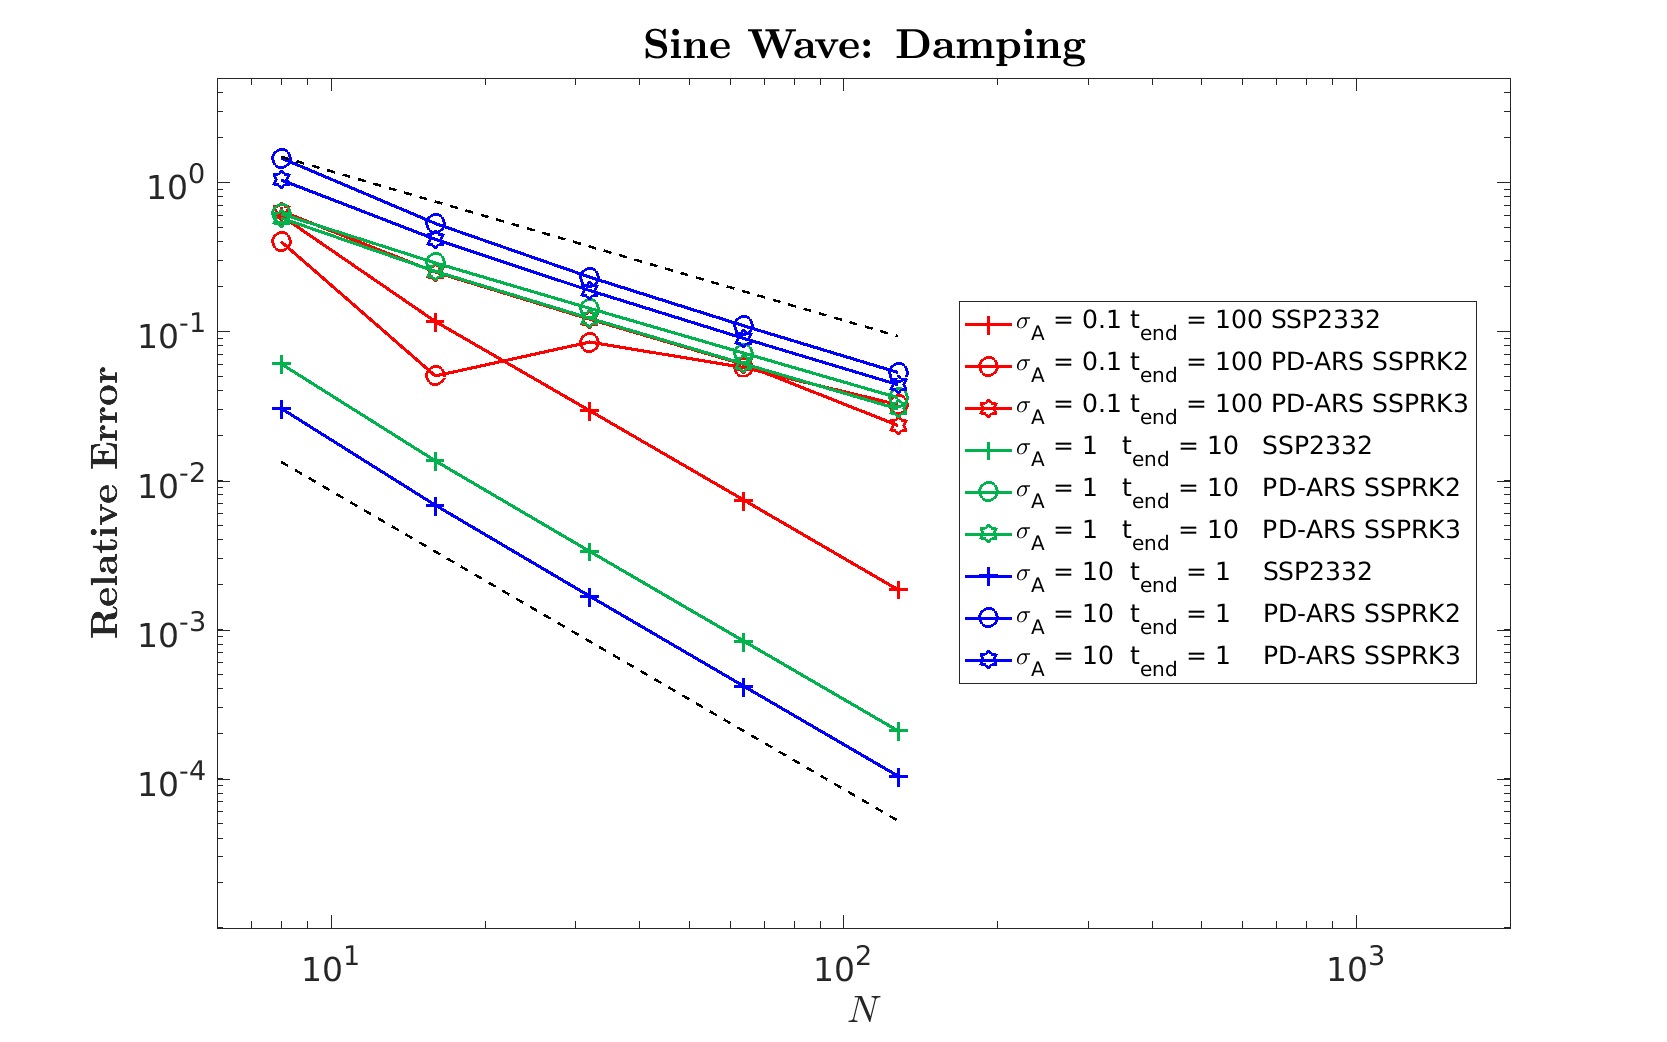
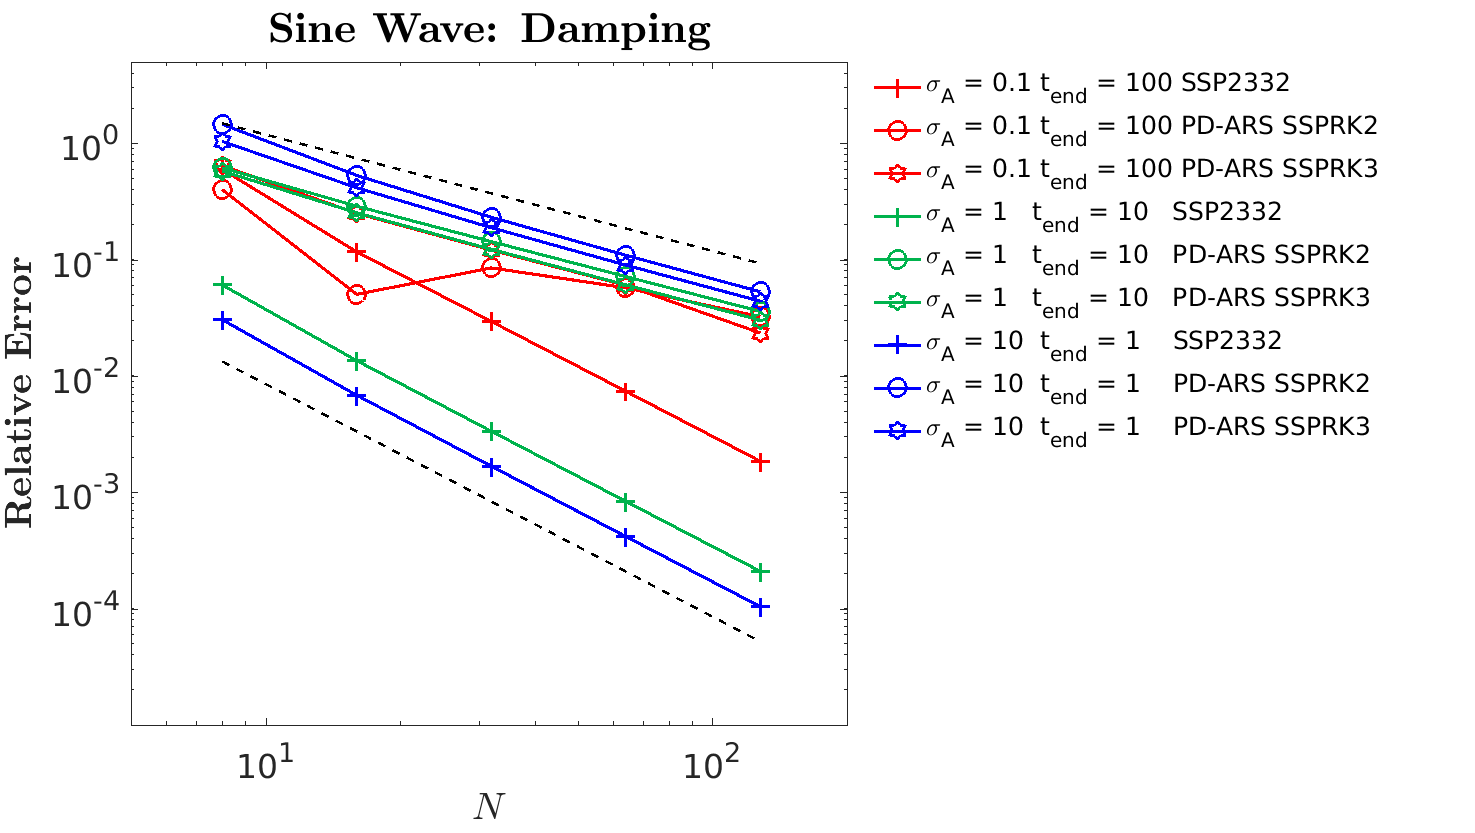
Added acknowledgment. Cosmetic changes for the sine wave tests plots.

diff --git a/Documents/M1/Astronum_2018/sections/Numerical.tex b/Documents/M1/Astronum_2018/sections/Numerical.tex
@@ -27,7 +27,7 @@ That's why errors of PD-ARSs and SSPRKs are indistinguishable on the plot.
 
 \begin{figure}[h]
   \centering
-    \includegraphics[width=0.6\textwidth]{figures/SineWaveStreaming}
+    \includegraphics[width=0.8\textwidth]{figures/SineWaveStreaming}
    \caption{Absolute error versus number of elements $N$ for the streaming sine wave test.  Results employing various time stepping schemes are compared: SSPRK2 (cyan triangles pointing up), SSPRK3 (cyan triangles pointing down), SSP2332 (green crossing), PD-ARS with SSPRK2 (light red circles) and PD-ARS with SSPRK2 (light red hexagram). Black dash reference lines are proportional to $N^{-2}$ (top), and $N^{-3}$ (bottom), respectively.}
    \label{fig: SineWaveStreaming}
 \end{figure}
@@ -42,7 +42,7 @@ SSP2332 as a second-order scheme display second order convergence rate.
 PD-ARSs convergent in first order as a price paid for convex-invariance.
 \begin{figure}[h]
   \centering
-    \includegraphics[width=0.7\textwidth]{figures/SineWaveDamping}
+    \includegraphics[width=0.9\textwidth]{figures/SineWaveDamping}
    \caption{Relative error versus number of elements $N$ for the damping sine wave test. Results for different values of the absorption opacity $\sigma_{\Ab}$, employing various IMEX time stepping schemes, are compared.  Errors for $\sigma_{\Ab}=0.1$, $1$, and $10$ are plotted with red, green, and blue lines, respectively.  The IMEX schemes employed are SSP2332 ($+$), PD-ARS with SSPRK2 (circles) and PD-ARS with SSPRK3 (hexagram).  Black dash reference lines are proportional to $N^{-1}$ (top) and $N^{-2}$ (bottom), respectively.}
   \label{fig:SineWaveDamping}
 \end{figure}
@@ -58,10 +58,11 @@ SSP2332 and PD-ARSs display third-order accuracy for the number density $\cJ$ an
 PD-ARS with SSP2332 behaviors as good as SSP2332 in the diffusion region but requires 1/3 less implicit solver.
 \begin{figure}[h]
   \centering
-  \begin{tabular}{cc}
-    \includegraphics[width=0.5\textwidth]{figures/SineWaveDiffusionJ}
-    \includegraphics[width=0.5\textwidth]{figures/SineWaveDiffusionH}
-  \end{tabular}
+  \centerline{\includegraphics[width=1.2\textwidth]{figures/SineWaveDiffusion}}
+%  \begin{tabular}{cc}
+%    \includegraphics[width=0.5\textwidth]{figures/SineWaveDiffusionJ}
+%    \includegraphics[width=0.5\textwidth]{figures/SineWaveDiffusionH}
+%  \end{tabular}
    \caption{Absolute error for the number density $\cJ$ (left) and the number flux $\cH_{x}$ (right) versus number of elements for the sine wave diffusion test.  Results with different values of the scattering opacity $\sigma_{\Scatt}$, employing different IMEX schemes, are compared.  Errors with $\sigma_{\Scatt}=10^{2}$, $10^{3}$, and $10^{4}$ are plotted with red, green, and blue lines, respectively.  The IMEX schemes employed are:  SSP2332 ($+$), PD-ARS with SSPRK2 (circles) and PD-ARS with SSPRK3 (hexagram). Black dash on the left plot reference lines are proportional to $N^{-2}$ (top) and $N^{-3}$ (bottom), respectively. Black dash on the right plot reference lines are proportional to $N^{-2}$ .}
    \label{fig:SineWaveDiffusionJ}
 \end{figure}

diff --git a/Documents/M1/Astronum_2018/sections/Acknowledge.tex b/Documents/M1/Astronum_2018/sections/Acknowledge.tex
@@ -1,0 +1,6 @@
+\section{Acknowledgment} \label{se:Acknowledgment}
+
+\rc{This research is sponsored, in part, by the Laboratory Directed Research and Development Program of Oak Ridge National Laboratory (ORNL), managed by UT-Battelle, LLC for the U. S. Department of Energy under Contract No. De-AC05-00OR22725.  
+This research was supported by the Exascale Computing Project (17-SC-20-SC), a collaborative effort of the U.S. Department of Energy Office of Science and the National Nuclear Security Administration.  
+This material is based, in part, upon work supported by the U.S. Department of Energy, Office of Science, Office of Advanced Scientific Computing Research.  
+Ran Chu was supported in part by NSF under Grant No. 1535130.}

diff --git a/Documents/M1/Astronum_2018/manuscript.tex b/Documents/M1/Astronum_2018/manuscript.tex
@@ -59,8 +59,9 @@ The accuracy and convex-invariance of PD-ARSs are demonstrated in the numerical 
 \input{sections/TimeIntegration}
 \input{sections/Numerical}
 \input{sections/Conclusion}
+\input{sections/Acknowledge}
 
-\section*{References}
+%\section*{References}
 \bibliography{references/references}
 
 \end{document}
